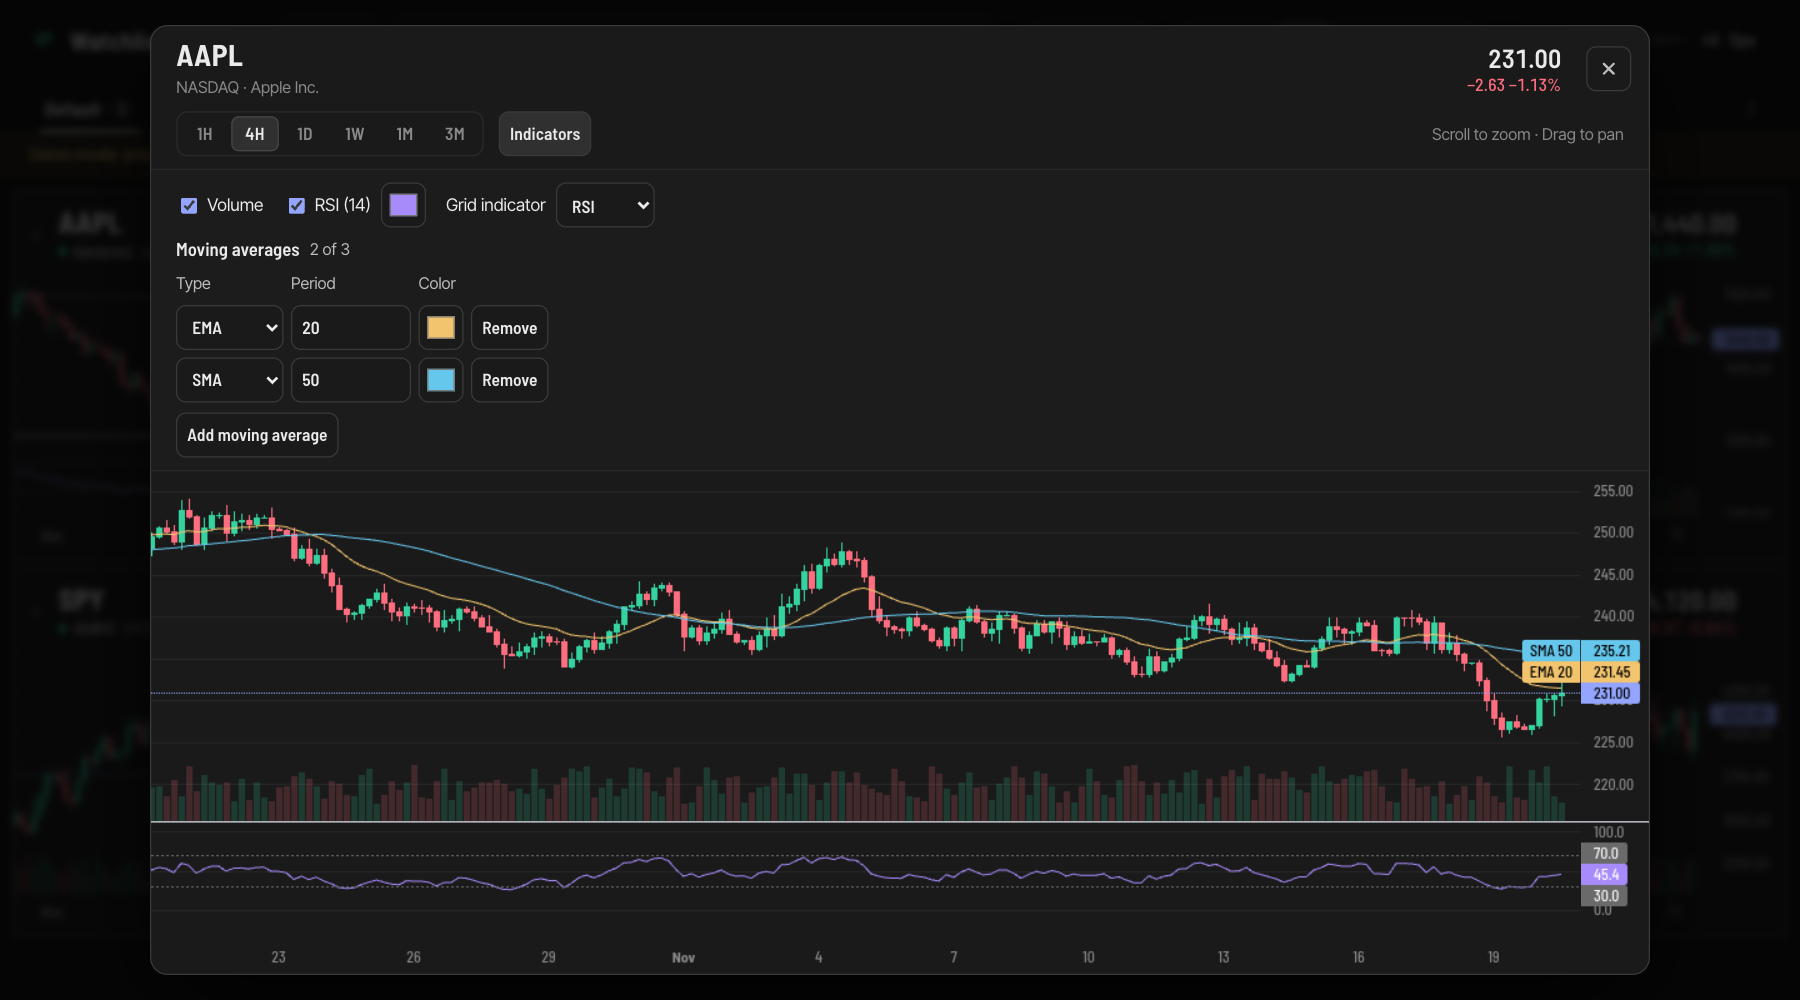
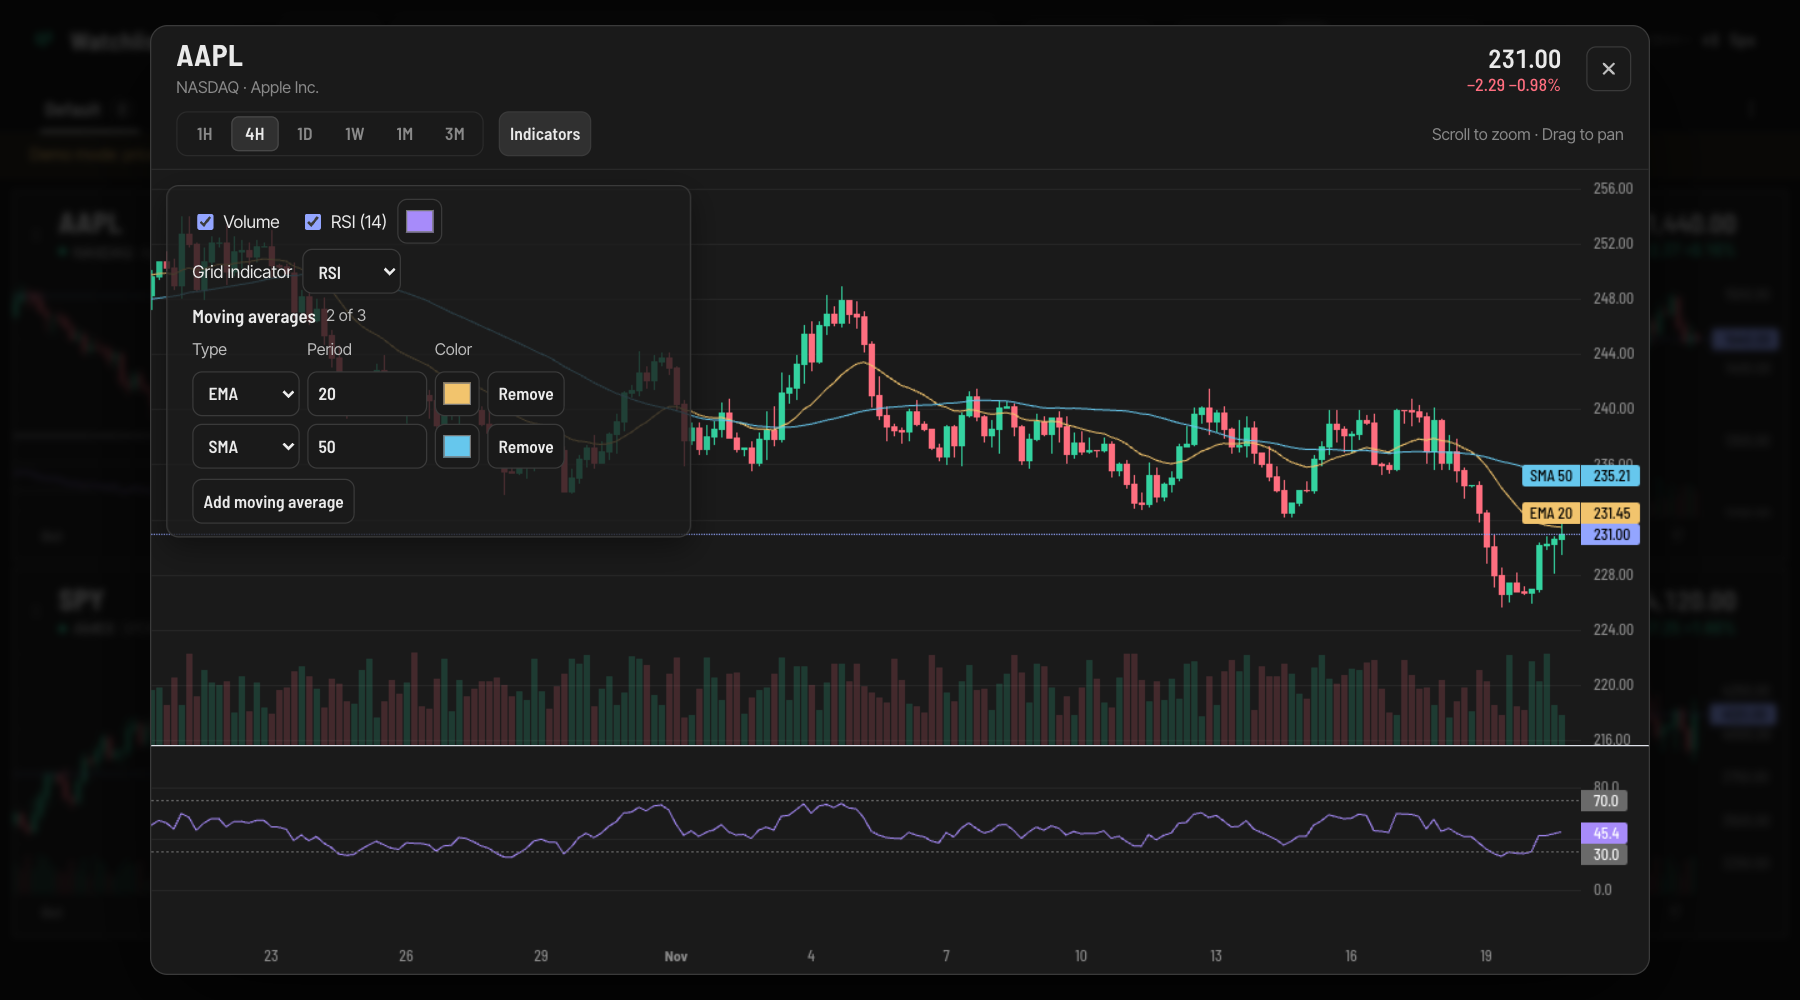
Overlay indicators on the enlarged chart

diff --git a/public/index.html b/public/index.html
@@ -88,43 +88,43 @@
       <button class="indicator-button" id="chart-viewer-indicators" type="button" aria-expanded="false" aria-controls="chart-viewer-indicator-panel">Indicators</button>
       <p class="chart-viewer-hint">Scroll to zoom · Drag to pan</p>
     </div>
-    <section class="indicator-panel" id="chart-viewer-indicator-panel" aria-label="Chart indicators" hidden>
-      <div class="indicator-toggles">
-        <label><input id="chart-viewer-volume" type="checkbox"> Volume</label>
-        <div class="indicator-rsi">
-          <label><input id="chart-viewer-rsi" type="checkbox"> RSI (14)</label>
-          <input class="indicator-color" id="chart-viewer-rsi-color" type="color" aria-label="RSI line color">
-        </div>
-        <div class="indicator-grid-choice" id="chart-viewer-grid-choice" hidden>
-          <label for="chart-viewer-grid-indicator">Grid indicator</label>
-          <select id="chart-viewer-grid-indicator">
-            <option value="volume">Volume</option>
-            <option value="rsi">RSI</option>
-          </select>
-        </div>
-      </div>
-      <div class="indicator-averages-head">
-        <h3>Moving averages</h3>
-        <span id="chart-viewer-average-count" aria-live="polite"></span>
-      </div>
-      <div class="indicator-average indicator-average-labels" aria-hidden="true"><span>Type</span><span>Period</span><span>Color</span></div>
-      <div class="indicator-averages" id="chart-viewer-averages"></div>
-      <button class="indicator-button" id="chart-viewer-add-average" type="button">Add moving average</button>
-      <template id="chart-viewer-average-template">
-        <div class="indicator-average">
-          <select data-average-type>
-            <option value="sma">SMA</option>
-            <option value="ema">EMA</option>
-          </select>
-          <input data-average-period type="number" min="1" step="1">
-          <input class="indicator-color" data-average-color type="color">
-          <button data-average-remove type="button">Remove</button>
-        </div>
-      </template>
-    </section>
     <div class="chart-viewer-body">
       <div class="chart-viewer-chart" id="chart-viewer-chart"></div>
       <div class="state" id="chart-viewer-status" role="status" hidden></div>
+      <section class="indicator-panel" id="chart-viewer-indicator-panel" aria-label="Chart indicators" hidden>
+        <div class="indicator-toggles">
+          <label><input id="chart-viewer-volume" type="checkbox"> Volume</label>
+          <div class="indicator-rsi">
+            <label><input id="chart-viewer-rsi" type="checkbox"> RSI (14)</label>
+            <input class="indicator-color" id="chart-viewer-rsi-color" type="color" aria-label="RSI line color">
+          </div>
+          <div class="indicator-grid-choice" id="chart-viewer-grid-choice" hidden>
+            <label for="chart-viewer-grid-indicator">Grid indicator</label>
+            <select id="chart-viewer-grid-indicator">
+              <option value="volume">Volume</option>
+              <option value="rsi">RSI</option>
+            </select>
+          </div>
+        </div>
+        <div class="indicator-averages-head">
+          <h3>Moving averages</h3>
+          <span id="chart-viewer-average-count" aria-live="polite"></span>
+        </div>
+        <div class="indicator-average indicator-average-labels" aria-hidden="true"><span>Type</span><span>Period</span><span>Color</span></div>
+        <div class="indicator-averages" id="chart-viewer-averages"></div>
+        <button class="indicator-button" id="chart-viewer-add-average" type="button">Add moving average</button>
+        <template id="chart-viewer-average-template">
+          <div class="indicator-average">
+            <select data-average-type>
+              <option value="sma">SMA</option>
+              <option value="ema">EMA</option>
+            </select>
+            <input data-average-period type="number" min="1" step="1">
+            <input class="indicator-color" data-average-color type="color">
+            <button data-average-remove type="button">Remove</button>
+          </div>
+        </template>
+      </section>
     </div>
   </dialog>
   <div class="sr-only" id="announce" role="status" aria-live="polite"></div>

diff --git a/public/styles.css b/public/styles.css
@@ -276,8 +276,11 @@ button { font: inherit; color: inherit; }
 .indicator-button[aria-expanded="true"], .indicator-button:hover:not(:disabled), .indicator-average button:hover { background: var(--active); }
 .indicator-button:disabled { color: var(--muted); cursor: default; }
 .indicator-panel {
-  display: grid; gap: 8px; flex: none; max-height: min(285px, 48dvh); overflow-y: auto; overscroll-behavior: contain;
-  padding: 10px 20px; background: var(--surface-raised); border-bottom: 1px solid var(--line);
+  position: absolute; top: 12px; left: 12px; z-index: 1;
+  width: min(420px, calc(100% - 24px)); max-height: calc(100% - 24px);
+  display: grid; gap: 8px; overflow-y: auto; overscroll-behavior: contain; padding: 10px 20px;
+  background: color-mix(in srgb, var(--surface-raised) 80%, transparent);
+  border: 1px solid var(--line-strong); border-radius: 10px; box-shadow: 0 8px 24px #0006;
 }
 .indicator-toggles { display: flex; flex-wrap: wrap; gap: 4px 16px; }
 .indicator-rsi, .indicator-grid-choice { display: flex; align-items: center; gap: 8px; }
@@ -302,7 +305,7 @@ button { font: inherit; color: inherit; }
 .chart-viewer-close:hover { color: var(--down); background: #ff6e7f14; }
 .chart-viewer-close svg { width: 16px; height: 16px; fill: none; stroke: currentColor; stroke-width: 1.8; stroke-linecap: round; }
 .chart-viewer-body { position: relative; flex: 1; min-height: 0; }
-.chart-viewer-chart { position: absolute; inset: 0; }
+.chart-viewer-chart { position: absolute; inset: 0; isolation: isolate; }
 @media (max-width: 719px) { .chart-viewer-hint { display: none; } }
 @media (max-width: 599px) {
   .chart-viewer { width: calc(100vw - 16px); height: calc(100dvh - 16px); border-radius: 10px; }

diff --git a/README.md b/README.md
@@ -37,11 +37,11 @@ The interval buttons and candle-width slider apply to the whole grid. Hover over
 
 Click or tap a chart to enlarge it. Scroll or pinch to zoom, and drag to pan. The enlarged view starts with the grid’s interval and lets you change its interval and zoom independently. Press Esc to close it.
 
-In the enlarged view, open **Indicators** to turn Volume and RSI on or off and change the RSI color. Add up to three SMA or EMA lines, each with its own period and color.
+Open **Indicators** to show the settings over the chart. Turn Volume and RSI on or off, change the RSI color, or add up to three SMA or EMA lines with their own periods and colors.
 
 If both Volume and RSI are on, use **Grid indicator** to choose which one shows on the tile. The app remembers your choices for each symbol.
 
-![Enlarged AAPL chart with the Indicators panel open](docs/screenshot-enlarged.png)
+![Indicators panel floating over the enlarged AAPL chart](docs/screenshot-enlarged.png)
 
 ## Read the news
 
